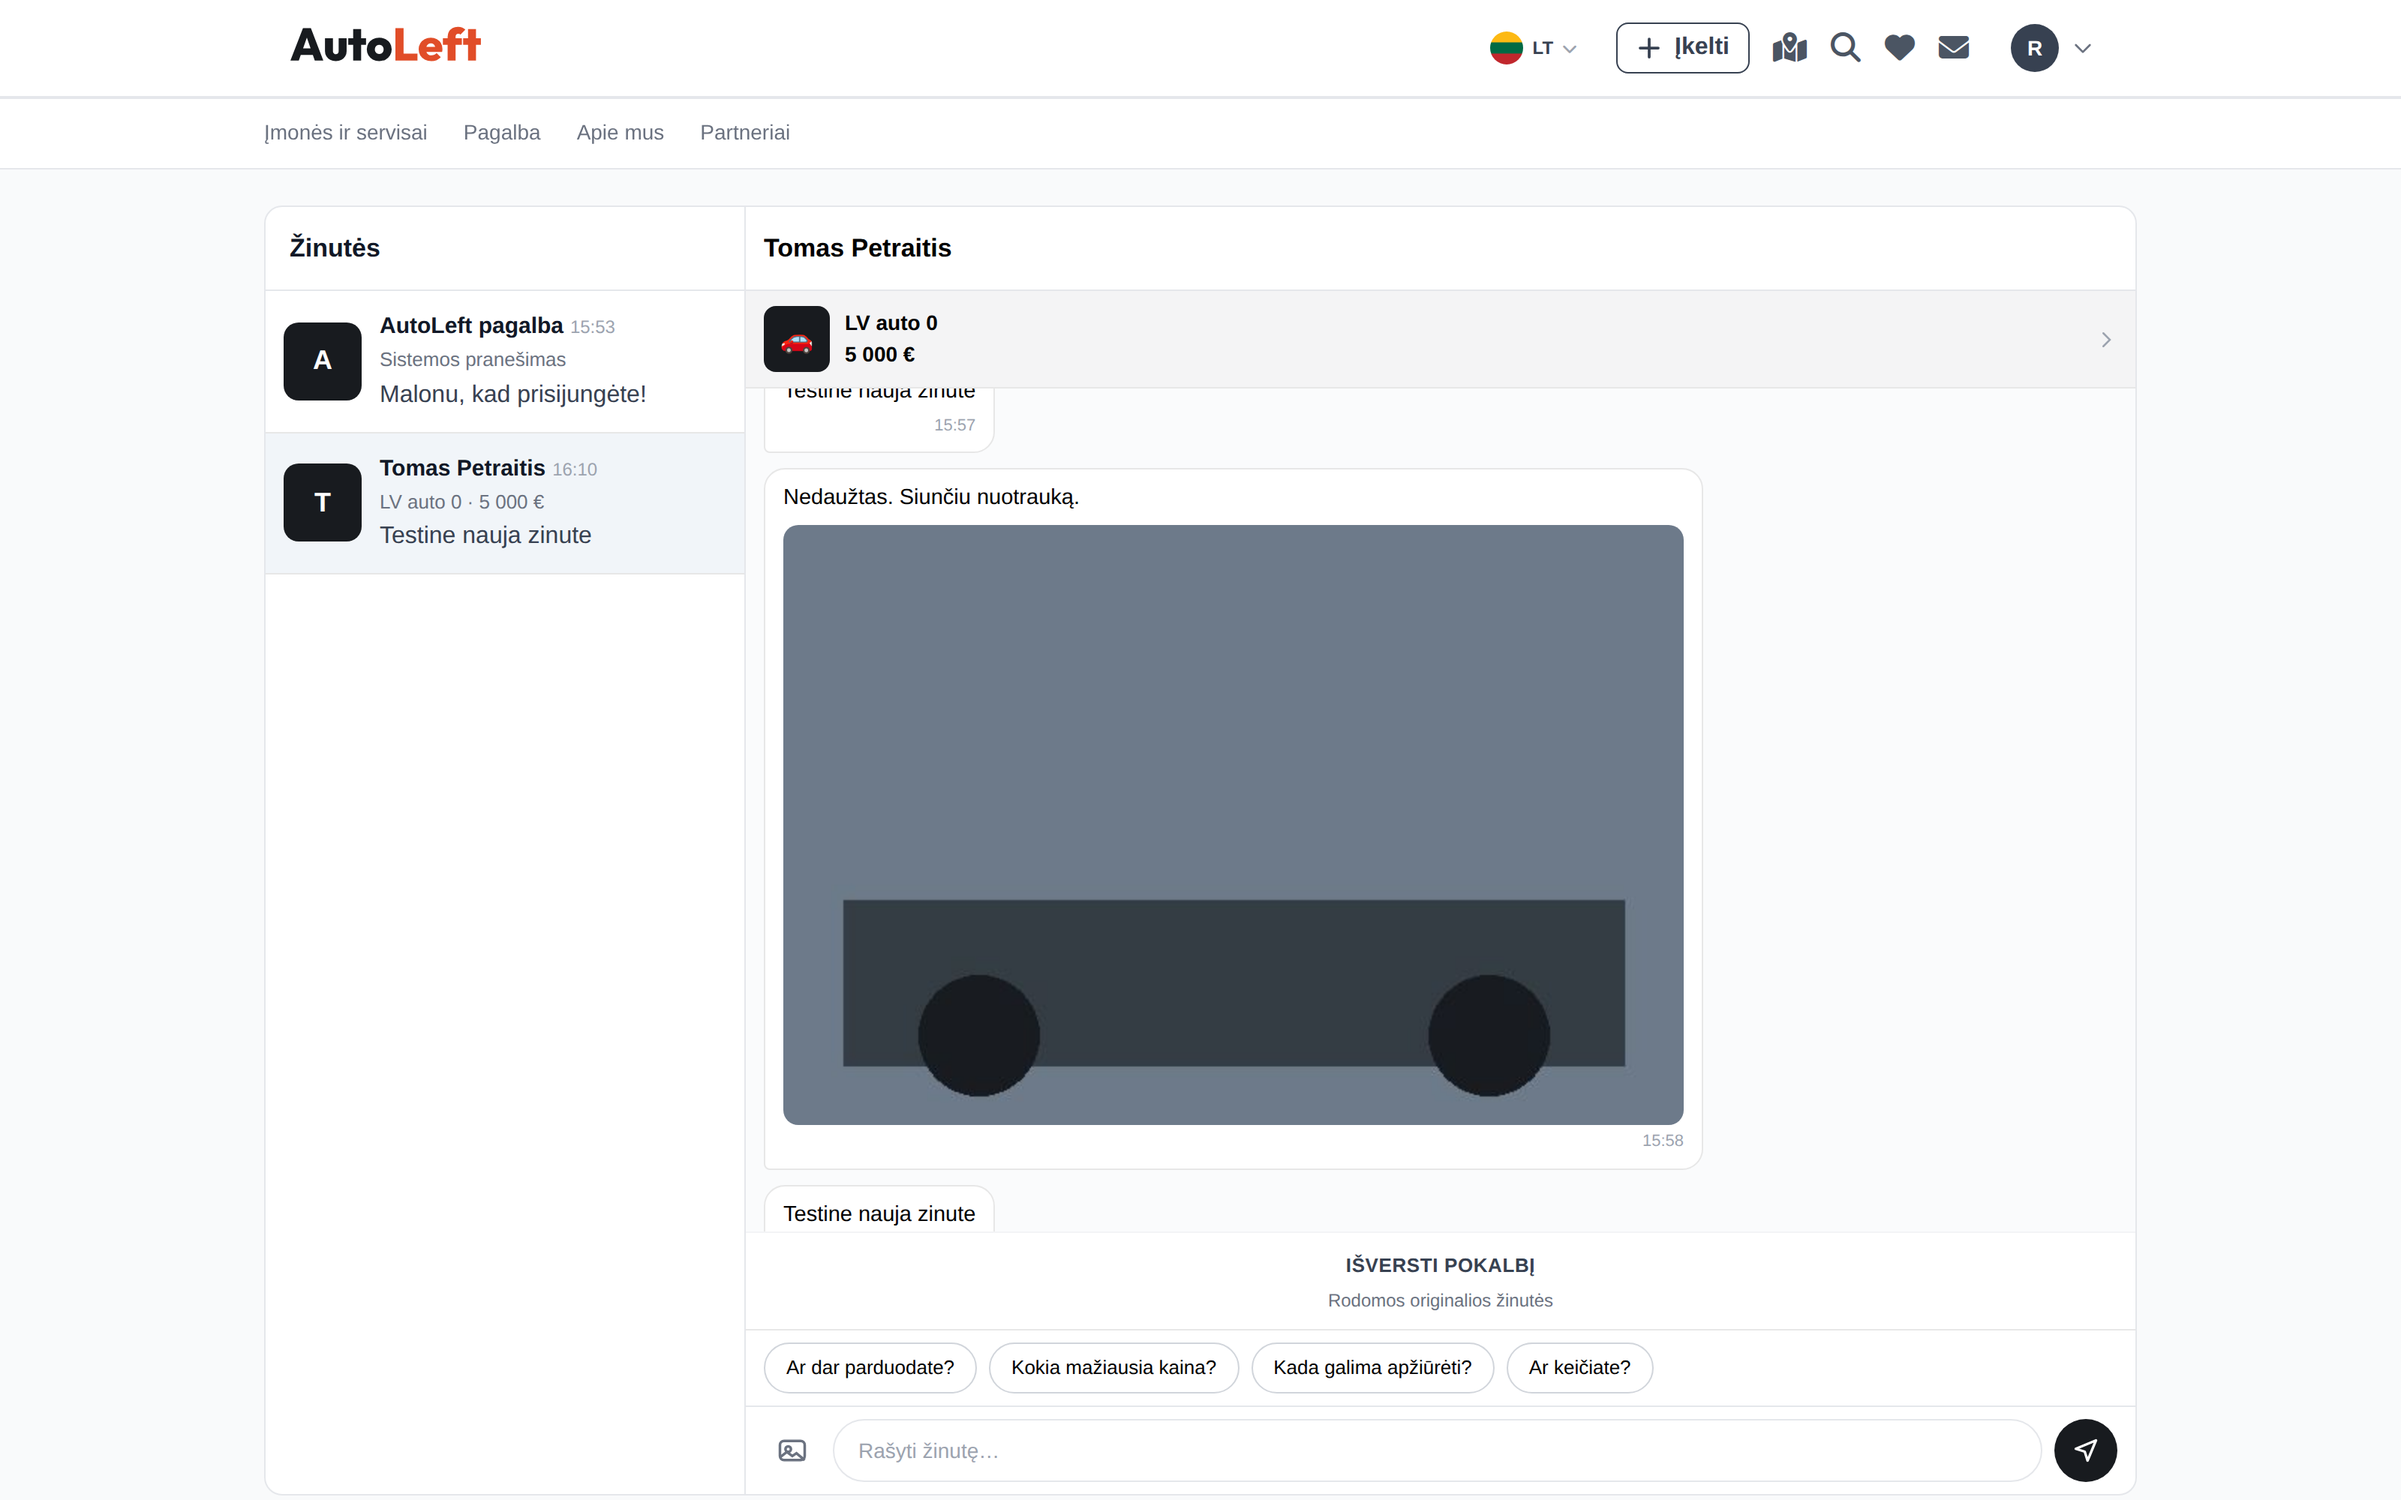
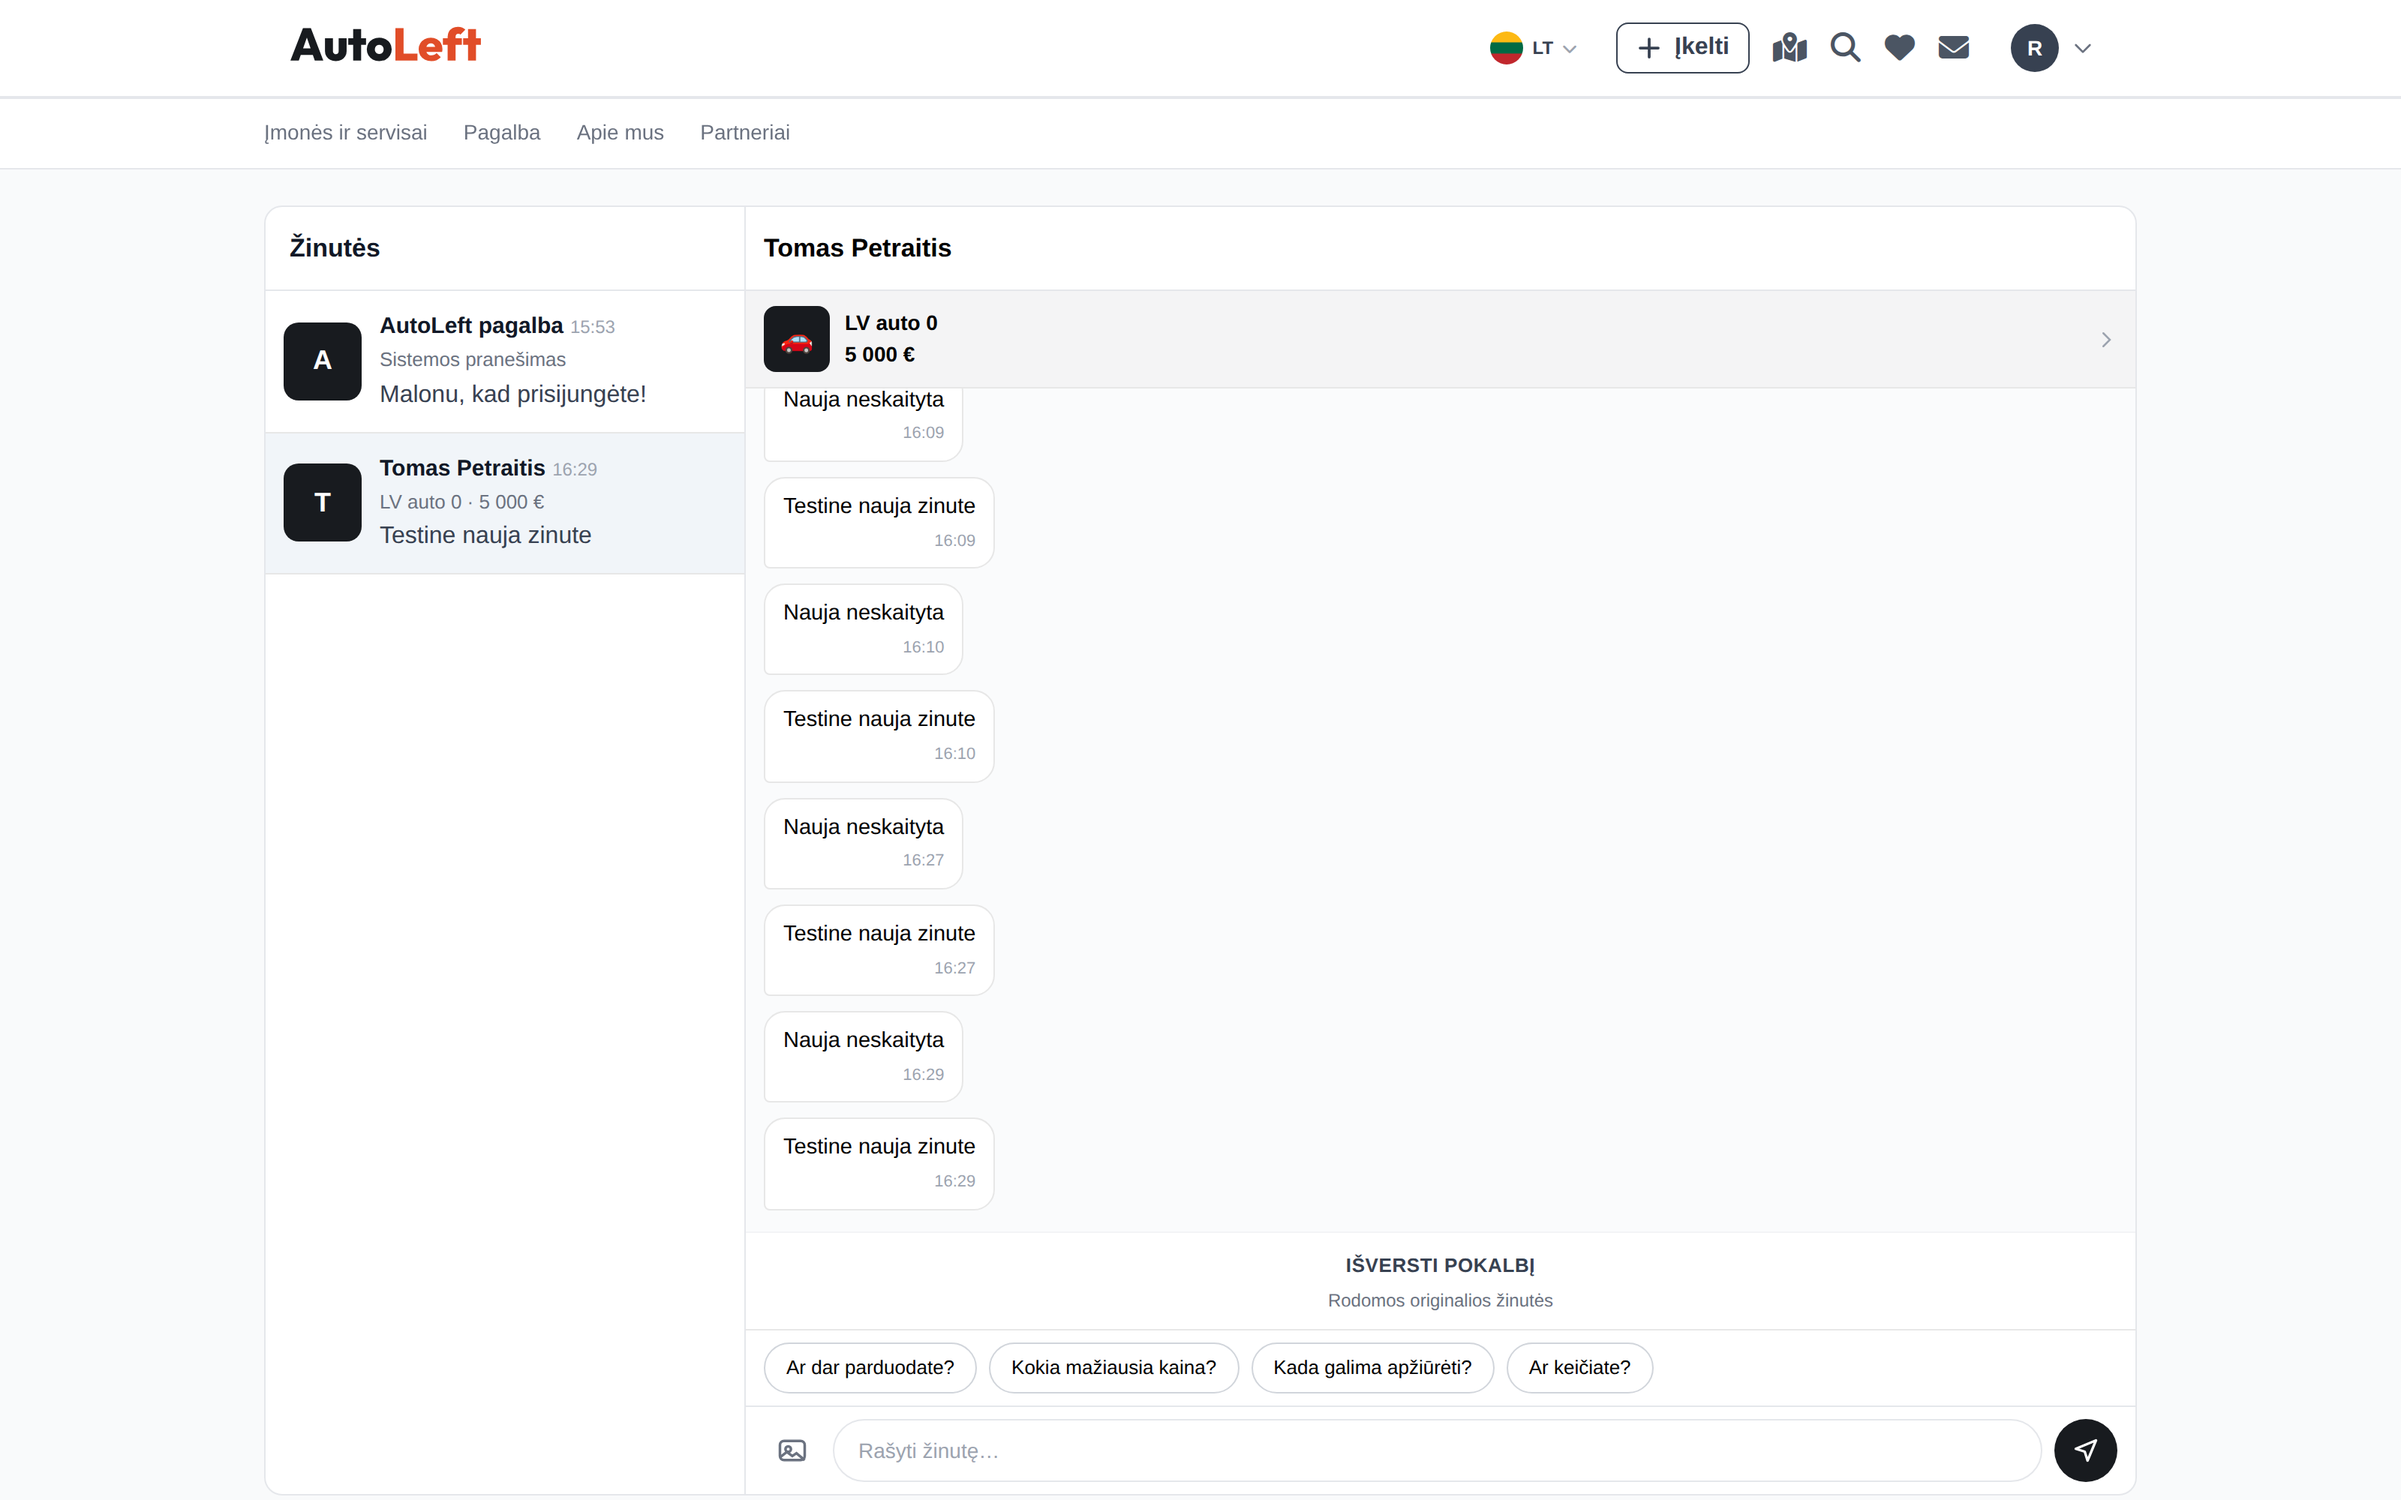
fix(zinutes): nuotrauka burbule — miniatiūra; vertimas atsuktas
1. NUOTRAUKOS. Burbule buvo `width:100%` — nuotrauka išsipūsdavo per visą
   burbulą ir išstumdavo žinutes. Dabar miniatiūra: max 220×220,
   object-fit:cover, apvalinimas 10 px, cursor:pointer; telefone — ne
   platesnė kaip 70 % burbulo. Originalą matai paspaudęs: didinimo
   langas per visą ekraną, uždaromas paspaudus šalia arba Escape.
   Taisyta VIENOJE vietoje (static/css/pokalbiai.css), tad galioja ir
   sąraše, ir pokalbyje — abu ekranai piešia tą pačią dalį.

   Išmatuota: telefone 182 px (64 % burbulo), darbalaukyje 220 px.

2. VERTIMAS ATSUKTAS. apps/conversations/translate_service.py grąžintas
   į buvusią būseną (git checkout 341ea4d^) — servisas vėl pats
   susitvarko su API klaidomis, kaip ir veikė. views.translate_conversation
   grąžintas prie senojo atsakymo (success/500).

   Palikta tik tai, ko prašyta: sąsaja neberodo amžino „Verčiama…".
   Importas guli try viduje (be to neįdiegta biblioteka duotų 500 su HTML
   vietoj JSON), o skriptas po 20 s nutraukia užklausą ir parodo
   „Nepavyko išversti. Bandykite dar kartą." Mygtukas grįžta į
   „IŠVERSTI POKALBĮ" ir vėl veikia.

Patikros: docs/zinutes_test.py 26/26, docs/zinutes_playwright.js 44/44
(pridėti miniatiūros matmenys ir Escape uždarymas).

Claude-Session: https://claude.ai/code/session_017uGDhWSkh3ZtRXsYeuC8m4

Changed region(s): [[0.3125, 0.248, 0.7188, 0.775], [0.3438, 0.806, 0.4062, 0.837]]

diff --git a/docs/zinutes_playwright.js b/docs/zinutes_playwright.js
@@ -172,6 +172,22 @@ const PASTAS = /[\w.-]+@[\w.-]+\.\w{2,}/;
     tik(await p.evaluate(() => { const l = document.getElementById('pkLangas'); return l && !l.hidden; }),
         'didinimo langas neatsidaro');
     await p.keyboard.press('Escape');
+    await p.waitForTimeout(300);
+    tik(await p.evaluate(() => { const l = document.getElementById('pkLangas'); return l.hidden; }),
+        'Escape neuždaro didinimo lango');
+    // Miniatiūra, ne visas burbulas
+    var mm = await p.evaluate(() => {
+      const i = document.querySelector('.pk-burb img.lightbox-trigger');
+      const r = i.getBoundingClientRect(), bur = i.closest('.pk-burb').getBoundingClientRect();
+      const cs = getComputedStyle(i);
+      return { w: Math.round(r.width), h: Math.round(r.height),
+               dalis: r.width / bur.width, radius: cs.borderRadius, cursor: cs.cursor };
+    });
+    console.log('  miniatiūra: ' + JSON.stringify(mm));
+    tik(mm.w <= 220 && mm.h <= 220, 'miniatiūra didesnė nei 220 px');
+    tik(mm.dalis <= 0.71, 'telefone miniatiūra platesnė nei 70 % burbulo');
+    tik(mm.radius === '10px', 'miniatiūros apvalinimas ne 10 px');
+    tik(mm.cursor === 'pointer', 'miniatiūra be cursor:pointer');
   } else {
     console.log('  (šitame pokalbyje nuotraukų nėra — praleista)');
   }
@@ -197,6 +213,16 @@ const PASTAS = /[\w.-]+@[\w.-]+\.\w{2,}/;
   }));
   tik(dd.sarasasMatyti, 'darbalaukyje sąrašas turi likti matomas');
   tik(dd.juostele, 'darbalaukyje nėra skelbimo juostelės');
+  var dm = await d.evaluate(() => {
+    const i = document.querySelector('.pk-burb img.lightbox-trigger');
+    if (!i) return null;
+    const r = i.getBoundingClientRect();
+    return { w: Math.round(r.width), h: Math.round(r.height) };
+  });
+  if (dm) {
+    console.log('  miniatiūra darbalaukyje: ' + JSON.stringify(dm));
+    tik(dm.w <= 220 && dm.h <= 220, 'darbalaukyje miniatiūra didesnė nei 220 px');
+  }
   tik(!PASTAS.test(dd.tekstas), 'darbalaukyje matyti el. paštas');
   await d.screenshot({ path: EKRANAI + '/zinutes-1600.png' });
 

diff --git a/static/css/pokalbiai.css b/static/css/pokalbiai.css
@@ -77,8 +77,12 @@
                border-bottom-left-radius: 4px; align-self: flex-start; }
 .pk-burb.as { background: #181B1F; color: #fff;
               border-bottom-right-radius: 4px; align-self: flex-end; }
-.pk-burb img { width: 100%; border-radius: 10px; margin-top: 6px; display: block;
-               cursor: pointer; }
+/* NUOTRAUKA BURBULE — miniatiūra, ne visas paveikslas. Iki 2026-09-02
+   čia buvo `width:100%`: nuotrauka išsipūsdavo per visą burbulą ir
+   išstumdavo žinutes. Originalą matai paspaudęs (didinimo langas). */
+.pk-burb img { max-width: 220px; max-height: 220px; width: auto; height: auto;
+               object-fit: cover; border-radius: 10px; margin-top: 6px;
+               display: block; cursor: pointer; }
 .pk-burb-laikas { font-size: 11px; color: #9CA3AF; margin-top: 3px; text-align: right; }
 .pk-burb.as .pk-burb-laikas { color: #A8ABB0; }
 .pk-tuscia { align-self: center; color: #9CA3AF; font-size: 13px; padding: 24px 0; }
@@ -108,4 +112,6 @@
   .pk-kortele { border: 0; border-radius: 0; height: calc(100vh - 56px); }
   .pk-greiti { padding-left: 12px; padding-right: 12px; }
   .pk-burb { max-width: 85%; }
+  /* Telefone miniatiūra neplatesnė kaip 70 % burbulo. */
+  .pk-burb img { max-width: 70%; }
 }

diff --git a/templates/conversations/partials/_pokalbio_js.html b/templates/conversations/partials/_pokalbio_js.html
@@ -176,7 +176,14 @@ jas prideda į apačią.
       }
       vTxt.textContent = T.verciama;
       vBtn.disabled = true;
-      fetch(vBtn.dataset.url, { headers: { 'X-Requested-With': 'XMLHttpRequest' } })
+      // Jei paslauga neatsako, „Verčiama…" negali kaboti amžinai:
+      // po 20 s nutraukiam ir parodom „Nepavyko išversti".
+      var nutraukiklis = ('AbortController' in window) ? new AbortController() : null;
+      var laikas = setTimeout(function () {
+        if (nutraukiklis) { nutraukiklis.abort(); } else { klaida(); vBtn.disabled = false; }
+      }, 20000);
+      fetch(vBtn.dataset.url, { headers: { 'X-Requested-With': 'XMLHttpRequest' },
+                                signal: nutraukiklis ? nutraukiklis.signal : undefined })
         .then(function (r) { return r.json().catch(function () { return {}; }); })
         .then(function (d) {
           if (d && d.success && d.messages) {
@@ -191,7 +198,7 @@ jas prideda į apačią.
           }
         })
         .catch(klaida)
-        .then(function () { vBtn.disabled = false; });
+        .then(function () { clearTimeout(laikas); vBtn.disabled = false; });
     });
   }
 

diff --git a/docs/zinutes_test.py b/docs/zinutes_test.py
@@ -156,13 +156,16 @@ for saknis, _k, failai in os.walk(os.path.join(BASE, 'templates', 'conversations
 tikrink(not blogos, 'liko location.reload(): %s' % blogos)
 
 
-antraste('5. Vertimo klaida matoma, o ne tylus originalas')
+antraste('5. Vertimas — logika kaip buvo, klaida nekabo')
+# Vertimo servisas 2026-09-02 ATSUKTAS į buvusią būseną (vartotojo
+# sprendimas): jis pats susitvarko su API klaidomis. Čia tikrinam tik tai,
+# kad neatsakius paslaugai atsakymas BŪTŲ, o ne amžinas „Verčiama…".
 SERVISAS = os.path.join(BASE, 'apps', 'conversations', 'translate_service.py')
-tikrink('return None' in open(SERVISAS, encoding='utf-8').read(),
-        'servisas vis dar grąžina originalą vietoj klaidos')
+tikrink('Failsafe' in open(SERVISAS, encoding='utf-8').read(),
+        'servisas nebe toks, koks buvo (dingo failsafe)')
 
-# google-cloud-translate šitame konteineryje neįdiegtas — pakišam
-# tuščią modulį, kad būtų galima patikrinti PATĮ KELIĄ, o ne biblioteką.
+# google-cloud-translate šitame konteineryje neįdiegtas — pakišam tuščią
+# modulį, kad būtų galima patikrinti PATĮ KELIĄ, o ne biblioteką.
 import types
 if 'google.cloud.translate_v2' not in sys.modules:
     g = types.ModuleType('google'); g.__path__ = []
@@ -179,23 +182,23 @@ kl2 = Client(HTTP_ACCEPT_LANGUAGE='lt')
 kl2.force_login(a)
 Message.objects.create(conversation=c, sender=a, content='Labas')
 orig = ts.translate_messages_for_user
-ts.translate_messages_for_user = lambda *args, **kw: None      # „API neatsakė"
-try:
-    r5 = kl2.get('/conversations/%s/translate/' % c.pk)
-    tikrink(r5.status_code == 502, 'neatsakius vertimui grąžinamas %s' % r5.status_code)
-    tikrink(json.loads(r5.content).get('success') is False, 'klaida praneša apie sėkmę')
-finally:
-    ts.translate_messages_for_user = orig
 
 def sprogsta(*args, **kw):
     raise RuntimeError('API nepasiekiamas')
 ts.translate_messages_for_user = sprogsta
 try:
     r6 = kl2.get('/conversations/%s/translate/' % c.pk)
-    tikrink(r6.status_code == 502, 'išimties atveju grąžinamas %s' % r6.status_code)
-    tikrink(json.loads(r6.content).get('success') is False, 'išimtis praneša apie sėkmę')
+    tikrink(r6.status_code == 500, 'neatsakius vertimui grąžinamas %s' % r6.status_code)
+    tikrink(json.loads(r6.content).get('success') is False,
+            'klaida praneša apie sėkmę — sąsaja liktų kaboti')
 finally:
     ts.translate_messages_for_user = orig
+
+# Sąsajoje turi būti ir laiko riba, ir klaidos užrašas
+JS = os.path.join(BASE, 'templates', 'conversations', 'partials', '_pokalbio_js.html')
+js = open(JS, encoding='utf-8').read()
+tikrink('Nepavyko išversti' in js, 'sąsaja nerodo „Nepavyko išversti"')
+tikrink('setTimeout' in js and 'abort' in js, 'nėra laiko ribos — „Verčiama…" gali kaboti')
 
 
 antraste('6. Negyvo paketo nebėra, admin užregistruotas')

diff --git a/apps/conversations/views.py b/apps/conversations/views.py
@@ -353,25 +353,23 @@ def translate_conversation(request, pk):
 
     messages_qs = conversation.messages.exclude(content='').order_by('created_at')
 
-    # Klaida turi būti MATOMA. Anksčiau servisas tyliai grąžindavo
-    # originalą, o sąsaja rodydavo „išversta" — žmogus matė savo kalbą ir
-    # manė, kad vertimas toks. Dabar servisas praneša, kad nepavyko, ir
-    # mygtukas rodo „Nepavyko išversti".
+    # Vertimo logika — TOKIA, KOKIA BUVO (2026-09-02 atsukta). Servisas
+    # pats susitvarko su API klaidomis; čia nieko nepridedam.
+    #
+    # Vienintelis pakeitimas prieš senąjį kodą: importas guli try viduje.
+    # Be jo neįdiegta google-cloud-translate biblioteka duotų 500 su HTML
+    # klaidos puslapiu vietoj JSON, ir sąsaja liktų kaboti ties
+    # „Verčiama…" — o ji turi parodyti „Nepavyko išversti".
     try:
-        # Importas ČIA, kartu su kvietimu: jei google-cloud-translate
-        # neįdiegtas, tai irgi „nepavyko išversti", o ne 500 su klaidos
-        # puslapiu vietoj JSON.
         from .translate_service import translate_messages_for_user
         translated = translate_messages_for_user(messages_qs, target_lang)
+        return JsonResponse({
+            'success': True,
+            'target_lang': target_lang,
+            'messages': translated,
+        })
     except Exception as e:
-        return JsonResponse({'success': False, 'error': str(e)}, status=502)
-
-    if translated is None:
-        return JsonResponse(
-            {'success': False, 'error': 'translate-unavailable'}, status=502)
-
-    return JsonResponse({
-        'success': True,
-        'target_lang': target_lang,
-        'messages': translated,
-    })
+        return JsonResponse({
+            'success': False,
+            'error': str(e),
+        }, status=500)

diff --git a/apps/conversations/translate_service.py b/apps/conversations/translate_service.py
@@ -32,7 +32,6 @@ def translate_messages_for_user(messages, target_lang='en'):
         target_lang: ISO kodas ('en', 'de', 'es', 'lt', 'lv', 'pl', etc.)
     
     Returns:
-        None, jei vertimo paslauga neatsakė (klaidą rodom vartotojui);
         list of dicts: [{
             'id': msg_id,
             'original': '...',
@@ -100,12 +99,14 @@ def translate_messages_for_user(messages, target_lang='en'):
                     ignore_conflicts=True,
                 )
         except Exception as e:
-            # KLAIDA NESLEPIAMA. Anksčiau čia buvo grąžinamas originalus
-            # tekstas, o sąsaja rodydavo „išversta" — žmogus matydavo savo
-            # kalbą ir manydavo, kad toks ir vertimas. Dabar grąžinam None,
-            # o view'as praneša „Nepavyko išversti".
+            # Failsafe: jei API neveikia (quota viršyta, network issue, etc.)
+            # — grąžinam originalų tekstą, vartotojas matys non-translated
             print(f"[translate_service] Google API error: {e}")
-            return None
+            for msg in to_translate:
+                cached[msg.id] = {
+                    'translated': msg.content,
+                    'detected': '',
+                }
     
     # 4. Sudarom output (ta pati eilė kaip input messages)
     output = []
